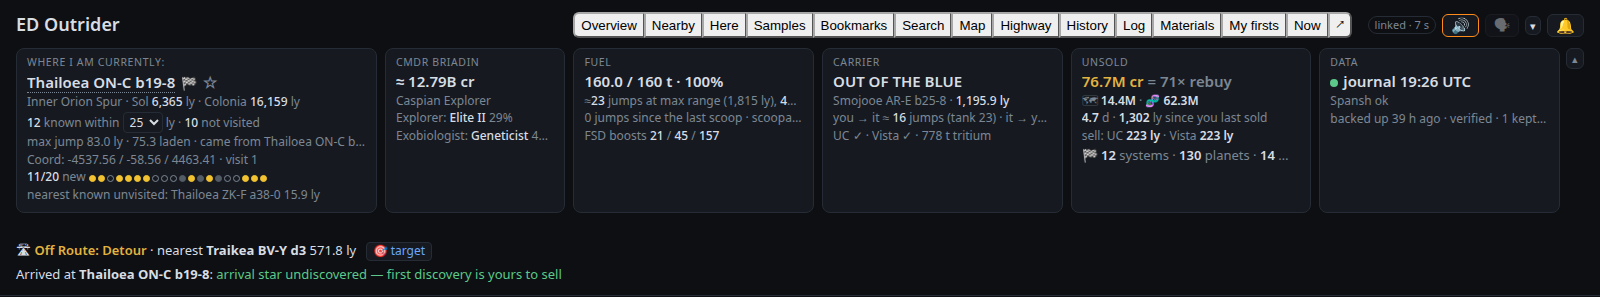
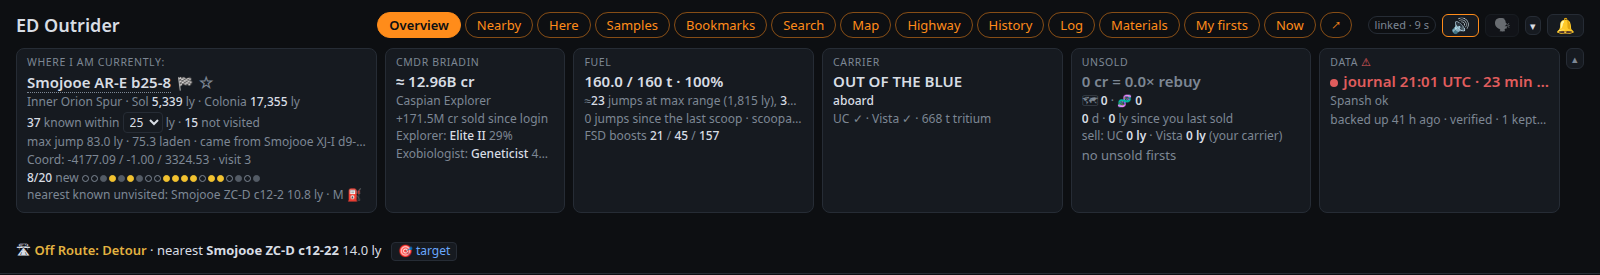
The view buttons as orange pills, the current one filled
They were the browser's default white buttons, glaring on the dark page.

diff --git a/static/page.css b/static/page.css
@@ -215,9 +215,12 @@ main > #hereView.detail > #bodyPanel { position: sticky; top: calc(var(--head-h,
 .sp.lost { color: var(--bad); }
 dialog h4 { margin: 12px 0 4px; font-size: 12px; color: var(--accent); text-transform: uppercase; letter-spacing: .04em; }
 dialog .reset { color: var(--info); cursor: pointer; font-size: 11px; margin-left: 6px; }
-.views { display: inline-flex; }
-.views button { border-radius: 0; margin-left: -1px; }
-.views button:first-child { border-radius: 6px 0 0 6px; } .views button:last-child { border-radius: 0 6px 6px 0; }
+/* the view buttons: orange pills on the dark page (the HUD's colours), the view you are on filled */
+.views { display: inline-flex; gap: 4px; }
+.views button { border-radius: 999px; margin: 0; padding: 3px 11px; font: inherit; font-size: 13px; cursor: pointer;
+  background: transparent; color: var(--accent); border: 1px solid color-mix(in srgb, var(--accent) 50%, transparent); }
+.views button:hover { background: color-mix(in srgb, var(--accent) 16%, transparent); border-color: var(--accent); }
+.views button.on { background: var(--accent); color: var(--bg); border-color: var(--accent); font-weight: 600; }
 #nearOpts { display: inline-flex; gap: 16px; }
 #searchView { margin-top: 12px; }
 .srow { display: flex; flex-wrap: wrap; gap: 12px 18px; align-items: center; }
@@ -461,7 +464,6 @@ main.nearPinned #hereSchematic .sbody { width: 64px; }
 .views { flex-wrap: wrap; row-gap: 4px; max-width: 100%; }
 @media (max-width: 720px) {
   .topbar .views { margin-left: 0; }
-  .views button { border-radius: 6px !important; margin: 0 4px 0 0; }
 }
 
 /* ---- Here: split and tree ---- */

diff --git a/docs/CHANGELOG.md b/docs/CHANGELOG.md
@@ -2,6 +2,10 @@
 
 Newest first, one entry per commit.
 
+## 2026-10-03 · The view buttons are orange pills
+- The row of view buttons (Overview … Now) was the browser's plain white buttons, glaring on the dark page: each is
+  now a pill in the HUD's orange, outlined, with the view you are on filled (asked by the author).
+
 ## 2026-10-03 · Tablet fixes from the Android app's test
 - System-name and search fields (Find, the Highway's from and to, the Log, Materials and Samples filters) are no
   longer capitalised or corrected by a tablet's keyboard.
